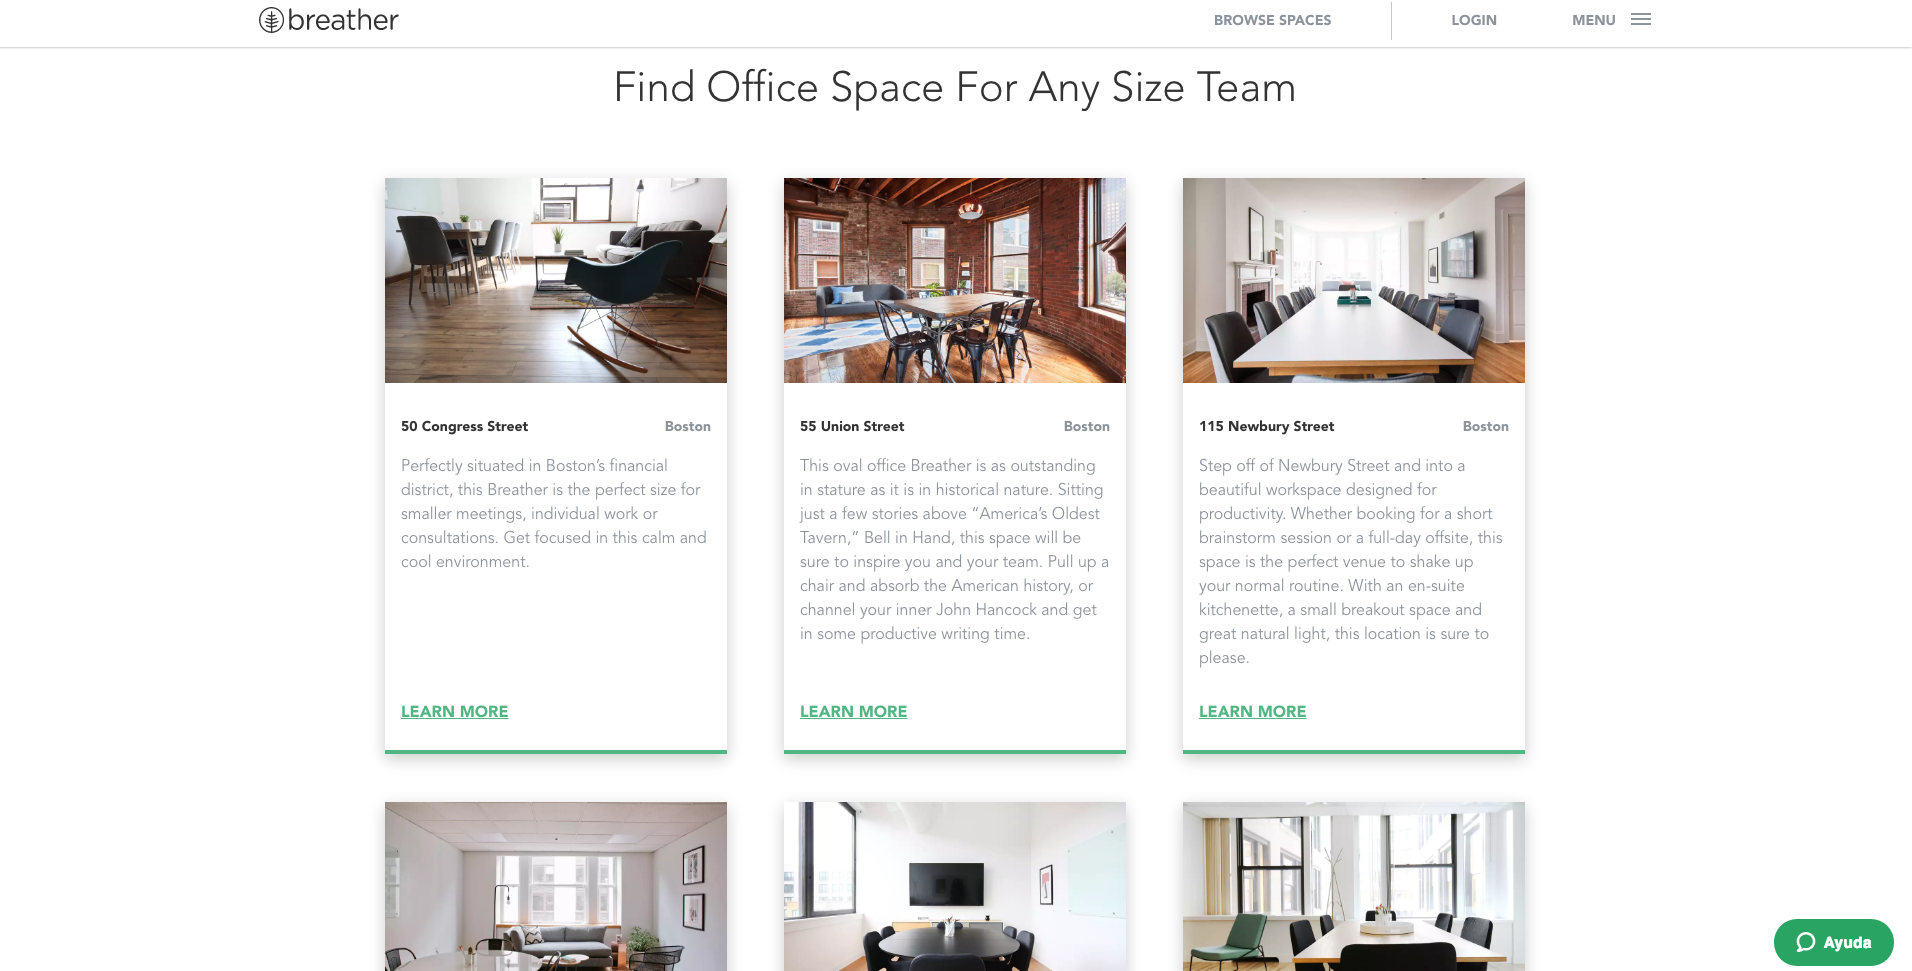
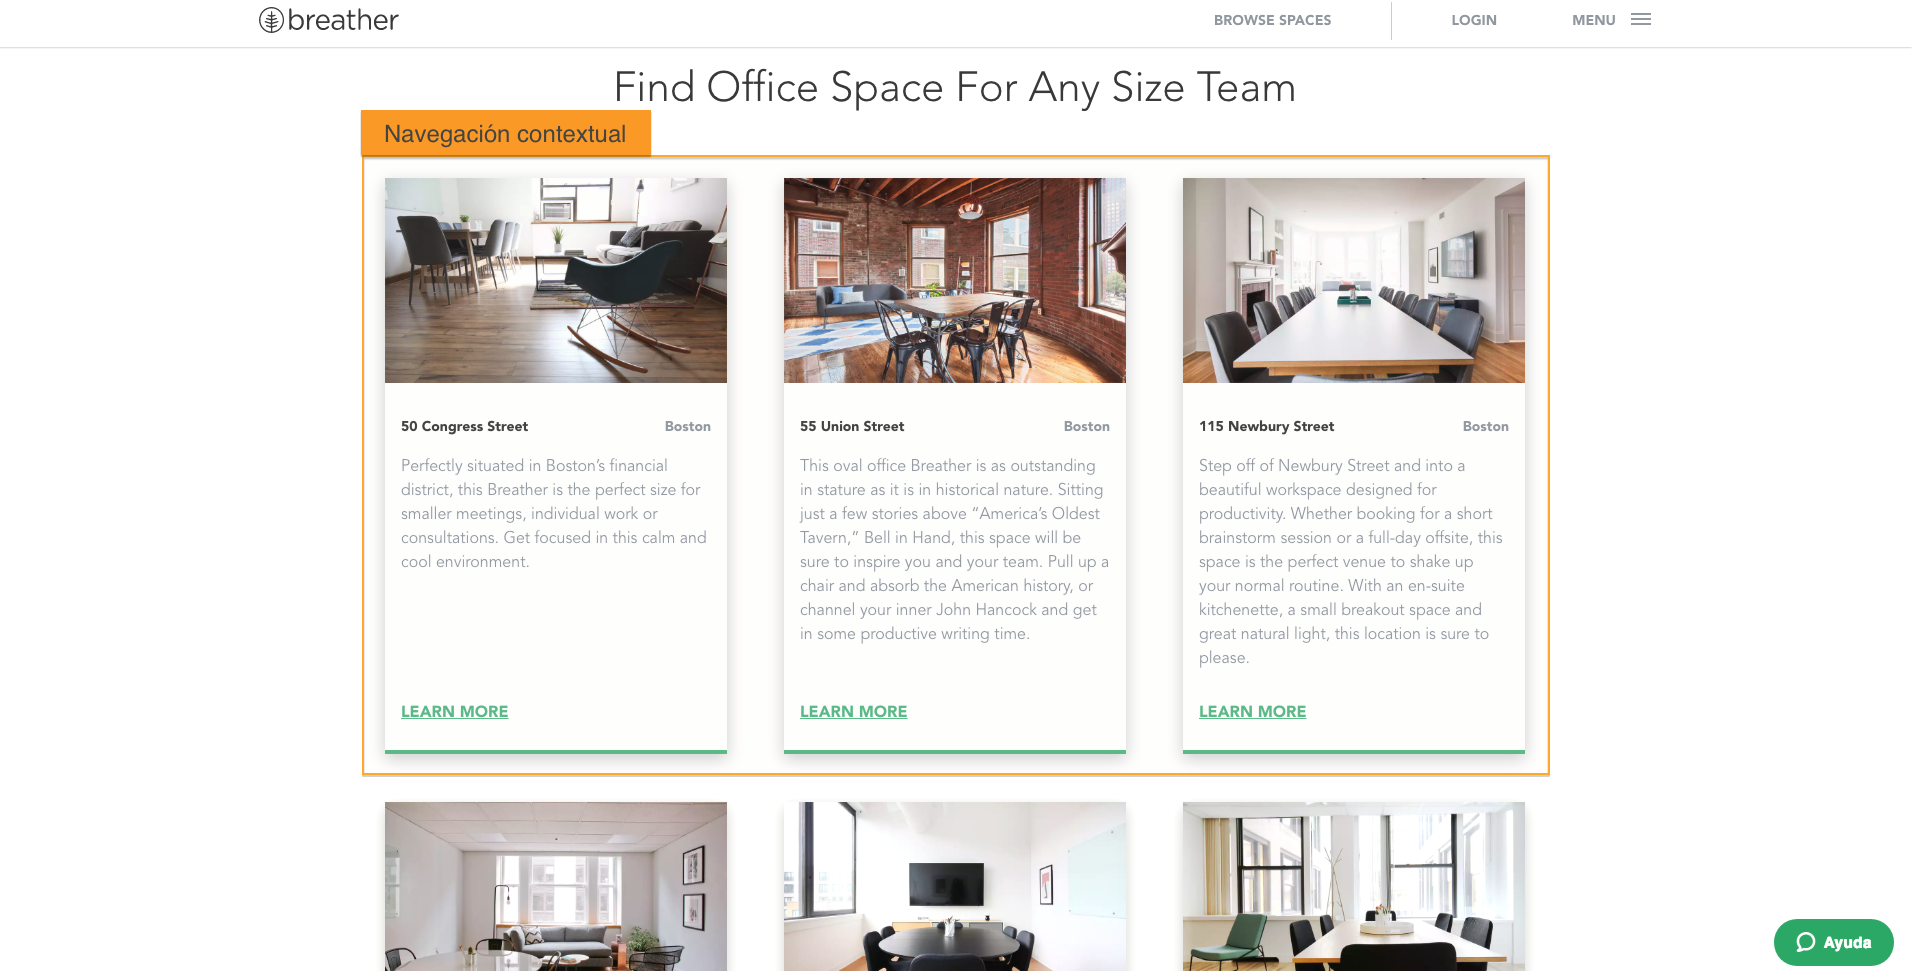
añadiendo pantallazos breather y medium señalizando elementos de navegacion

Changed region(s): [[0.1851, 0.0927, 0.8023, 0.1854], [0.1851, 0.7724, 0.8023, 0.8033]]

diff --git a/README.md b/README.md
@@ -1,0 +1,46 @@
+# Elementos de navegación
+
+* **Track:** _Common Core_
+* **Curso:** _Creando tu primer sitio web interactivo_
+* **Unidad 02:** _Intro a User Experience Design_
+
+***
+
+El presente reto pone a prueba nuestros conocimientos básicos sobre UX y UI.
+
+## Objetivo
+
+El reto consiste en identificar los elementos de navegación en las siguientes páginas web: **breather y medium**.
+
+
+## 1. Breather
+
+![breather-global](breather/nav-global.png)
+
+![breather-local](breather/nav-local.png)  
+
+![breather-facetada](breather/nav-facetada.png)  
+
+![breather-filtrada](breather/nav-filtrada.png)  
+
+![breather-contextual](breather/nav-contextual.png)  
+
+![breather-lineal](breather/nav-lineal.png)   
+
+## 2. Medium  
+
+![medium-global](medium/nav-global.png)  
+
+![medium-local](medium/nav-local.png)  
+
+![medium-facetada](medium/nav-facetada.png)  
+
+![medium-filtrada](medium/nav-filtrada.png)  
+
+![medium-contextual](medium/nav-contextual.png)  
+
+![medium-lineal](medium/nav-lineal.png)  
+
+## Autor
+
+* Gabriela Mamani Flores.
